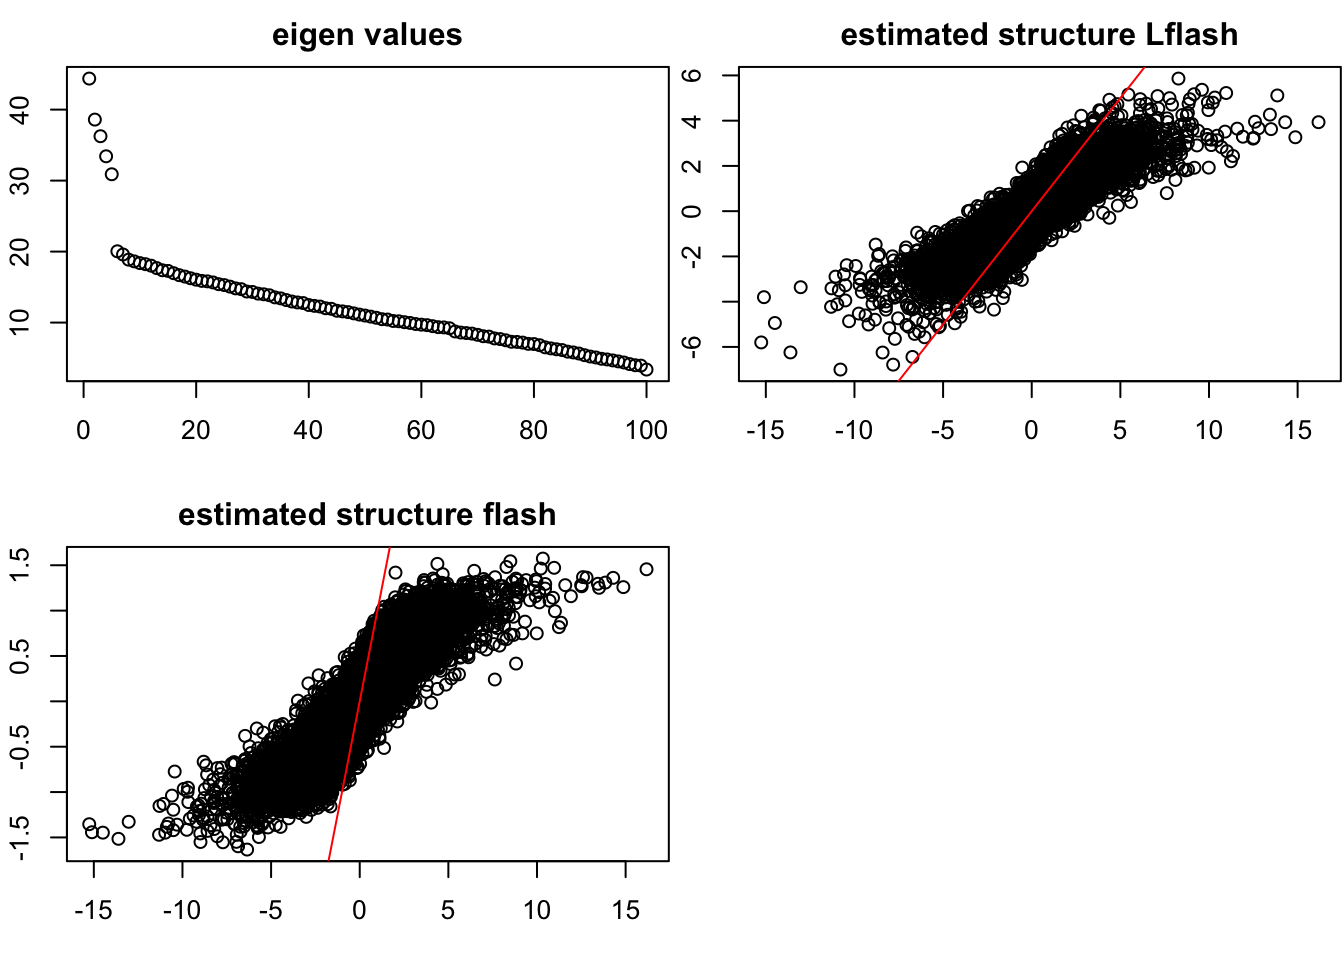
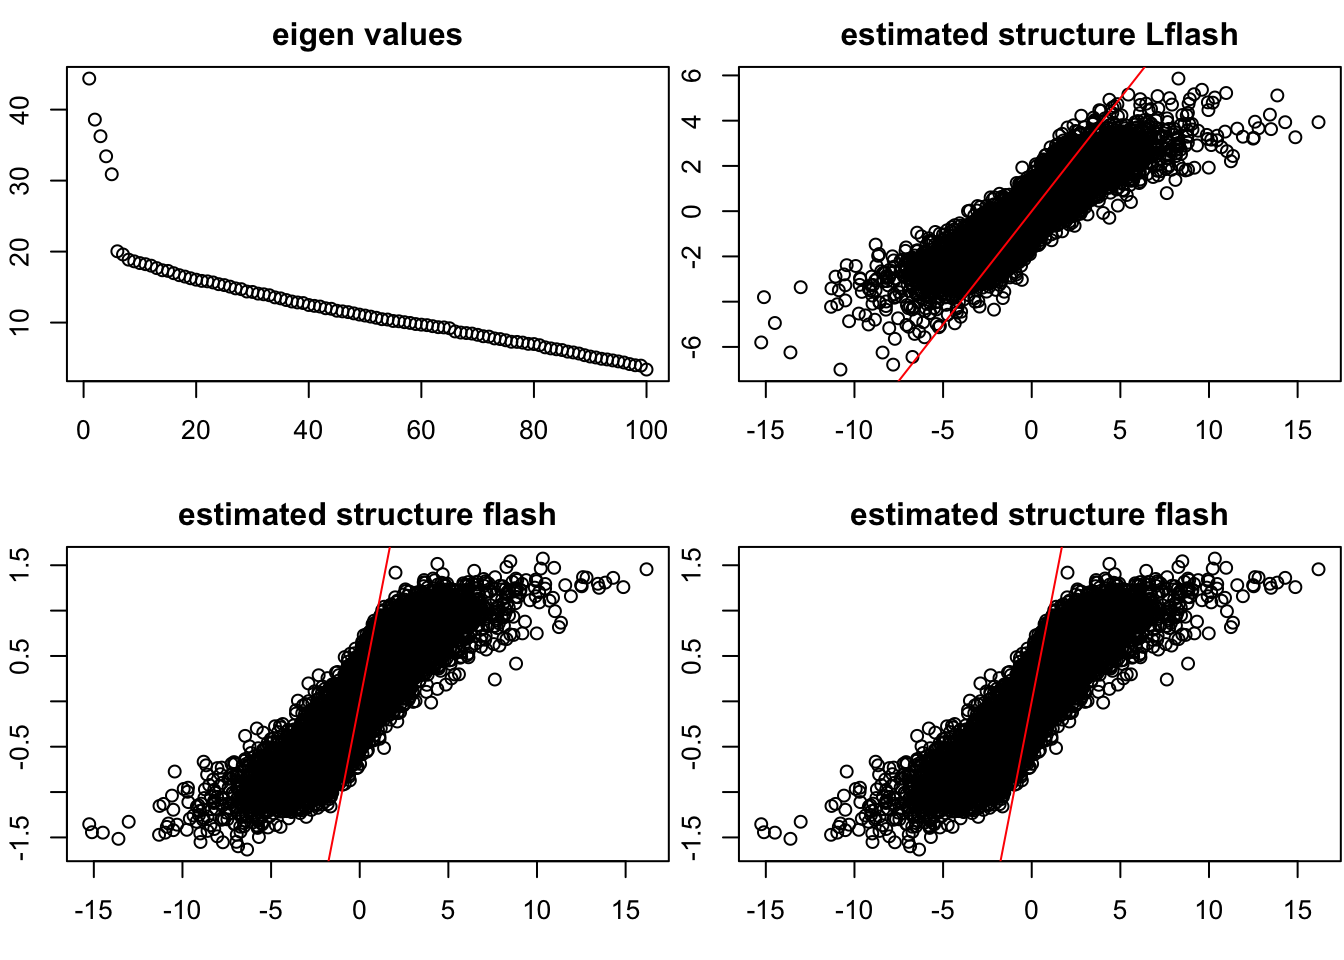
Build site.

diff --git a/docs/second-analysis.html b/docs/second-analysis.html
@@ -309,8 +309,8 @@ div.tocify {
 </div>
 
 
-<p><strong>Last updated:</strong> 2017-01-20</p>
-<p><strong>Code version:</strong> 4d398d4</p>
+<p><strong>Last updated:</strong> 2017-03-07</p>
+<p><strong>Code version:</strong> b2725e8</p>
 <div id="abstract" class="section level2">
 <h2>Abstract</h2>
 <p>This report is for the simple implementation of Logistic flash. There are two versions of inference for the model, both of which have advantage and drawbacks. More discussions are needed. We assume that our data matrix is <span class="math inline">\(Y_{N \times P}\)</span> where <span class="math inline">\(Y_{ij} = \pm 1\)</span> (we use <span class="math inline">\(\pm 1\)</span> rather than 0 or 1 here for the Boolean data). We first start from <span class="math inline">\(\mathbf{rank-one}\)</span> and known variance model, which makes the derivation clear and easy to understand.</p>
@@ -460,8 +460,14 @@ plot(svd(Y)$d,main = &quot;eigen values&quot;)
 plot(as.vector(Data$L_true %*% t(Data$F_true)),as.vector(Ltest$l %*% t(Ltest$f)),main = &quot;estimated structure Lflash&quot;)
 abline(0,1,col = &quot;red&quot;)
 plot(as.vector(Data$L_true %*% t(Data$F_true)),as.vector(gflash$l %*% t(gflash$f)),main = &quot;estimated structure flash&quot;)
+abline(0,1,col = &quot;red&quot;)
+plot(as.vector(Data$L_true %*% t(Data$F_true)),as.vector(gflash$l %*% t(gflash$f)),main = &quot;estimated structure flash&quot;)
 abline(0,1,col = &quot;red&quot;)</code></pre>
 <p><img src="figure/second-analysis.Rmd/unnamed-chunk-1-1.png" width="672" style="display: block; margin: auto;" /></p>
+<pre class="r"><code>library(boot)
+plot(as.vector(Data$L_true %*% t(Data$F_true)),inv.logit(as.vector(gflash$l %*% t(gflash$f))),main = &quot;estimated structure flash&quot;)
+abline(0,1,col = &quot;red&quot;)</code></pre>
+<p><img src="figure/second-analysis.Rmd/unnamed-chunk-1-2.png" width="672" style="display: block; margin: auto;" /></p>
 </div>
 <div id="mild-signal" class="section level3">
 <h3>3.1.2 mild signal</h3>
@@ -505,8 +511,14 @@ plot(svd(Y)$d,main = &quot;eigen values&quot;)
 plot(as.vector(Data$L_true %*% t(Data$F_true)),as.vector(Ltest$l %*% t(Ltest$f)),main = &quot;estimated structure Lflash&quot;)
 abline(0,1,col = &quot;red&quot;)
 plot(as.vector(Data$L_true %*% t(Data$F_true)),as.vector(gflash$l %*% t(gflash$f)),main = &quot;estimated structure flash&quot;)
+abline(0,1,col = &quot;red&quot;)
+plot(as.vector(Data$L_true %*% t(Data$F_true)),as.vector(gflash$l %*% t(gflash$f)),main = &quot;estimated structure flash&quot;)
 abline(0,1,col = &quot;red&quot;)</code></pre>
 <p><img src="figure/second-analysis.Rmd/unnamed-chunk-2-1.png" width="672" style="display: block; margin: auto;" /></p>
+<pre class="r"><code>library(boot)
+plot(as.vector(Data$L_true %*% t(Data$F_true)),inv.logit(as.vector(gflash$l %*% t(gflash$f))),main = &quot;estimated structure flash&quot;)
+abline(0,1,col = &quot;red&quot;)</code></pre>
+<p><img src="figure/second-analysis.Rmd/unnamed-chunk-2-2.png" width="672" style="display: block; margin: auto;" /></p>
 </div>
 <div id="small-signal-due-to-sparsity" class="section level3">
 <h3>3.1.3 small signal due to sparsity</h3>
@@ -551,7 +563,7 @@ abline(0,1,col = &quot;red&quot;)</code></pre>
 <pre class="r"><code>sessionInfo()</code></pre>
 <pre><code>R version 3.3.0 (2016-05-03)
 Platform: x86_64-apple-darwin13.4.0 (64-bit)
-Running under: OS X 10.12.2 (unknown)
+Running under: OS X 10.12.3 (unknown)
 
 locale:
 [1] en_US.UTF-8/en_US.UTF-8/en_US.UTF-8/C/en_US.UTF-8/en_US.UTF-8
@@ -560,20 +572,18 @@ attached base packages:
 [1] stats     graphics  grDevices utils     datasets  methods   base     
 
 other attached packages:
-[1] MASS_7.3-45     workflowr_0.3.0 rmarkdown_1.3  
+[1] workflowr_0.3.0 rmarkdown_1.3  
 
 loaded via a namespace (and not attached):
- [1] Rcpp_0.12.8       rstudioapi_0.6    knitr_1.15.1     
- [4] magrittr_1.5      REBayes_0.63      doParallel_1.0.10
- [7] pscl_1.4.9        SQUAREM_2016.8-2  lattice_0.20-33  
-[10] foreach_1.4.3     ashr_2.0.4        stringr_1.1.0    
-[13] flashr_0.1.1      tools_3.3.0       parallel_3.3.0   
-[16] grid_3.3.0        irlba_2.1.1       git2r_0.18.0     
-[19] htmltools_0.3.5   iterators_1.0.8   assertthat_0.1   
-[22] yaml_2.1.14       rprojroot_1.2     digest_0.6.11    
-[25] Matrix_1.2-7.1    codetools_0.2-14  evaluate_0.10    
-[28] stringi_1.1.1     Rmosek_7.1.2      backports_1.0.5  
-[31] truncnorm_1.0-7  </code></pre>
+ [1] Rcpp_0.12.9       knitr_1.15.1      magrittr_1.5     
+ [4] MASS_7.3-45       doParallel_1.0.10 pscl_1.4.9       
+ [7] SQUAREM_2016.8-2  lattice_0.20-34   foreach_1.4.3    
+[10] ashr_2.1.4        stringr_1.1.0     flashr_0.1.1     
+[13] tools_3.3.0       parallel_3.3.0    grid_3.3.0       
+[16] git2r_0.18.0      htmltools_0.3.5   iterators_1.0.8  
+[19] yaml_2.1.14       rprojroot_1.2     digest_0.6.12    
+[22] codetools_0.2-15  evaluate_0.10     stringi_1.1.2    
+[25] backports_1.0.5   truncnorm_1.0-7  </code></pre>
 </div>
 
 <hr>
